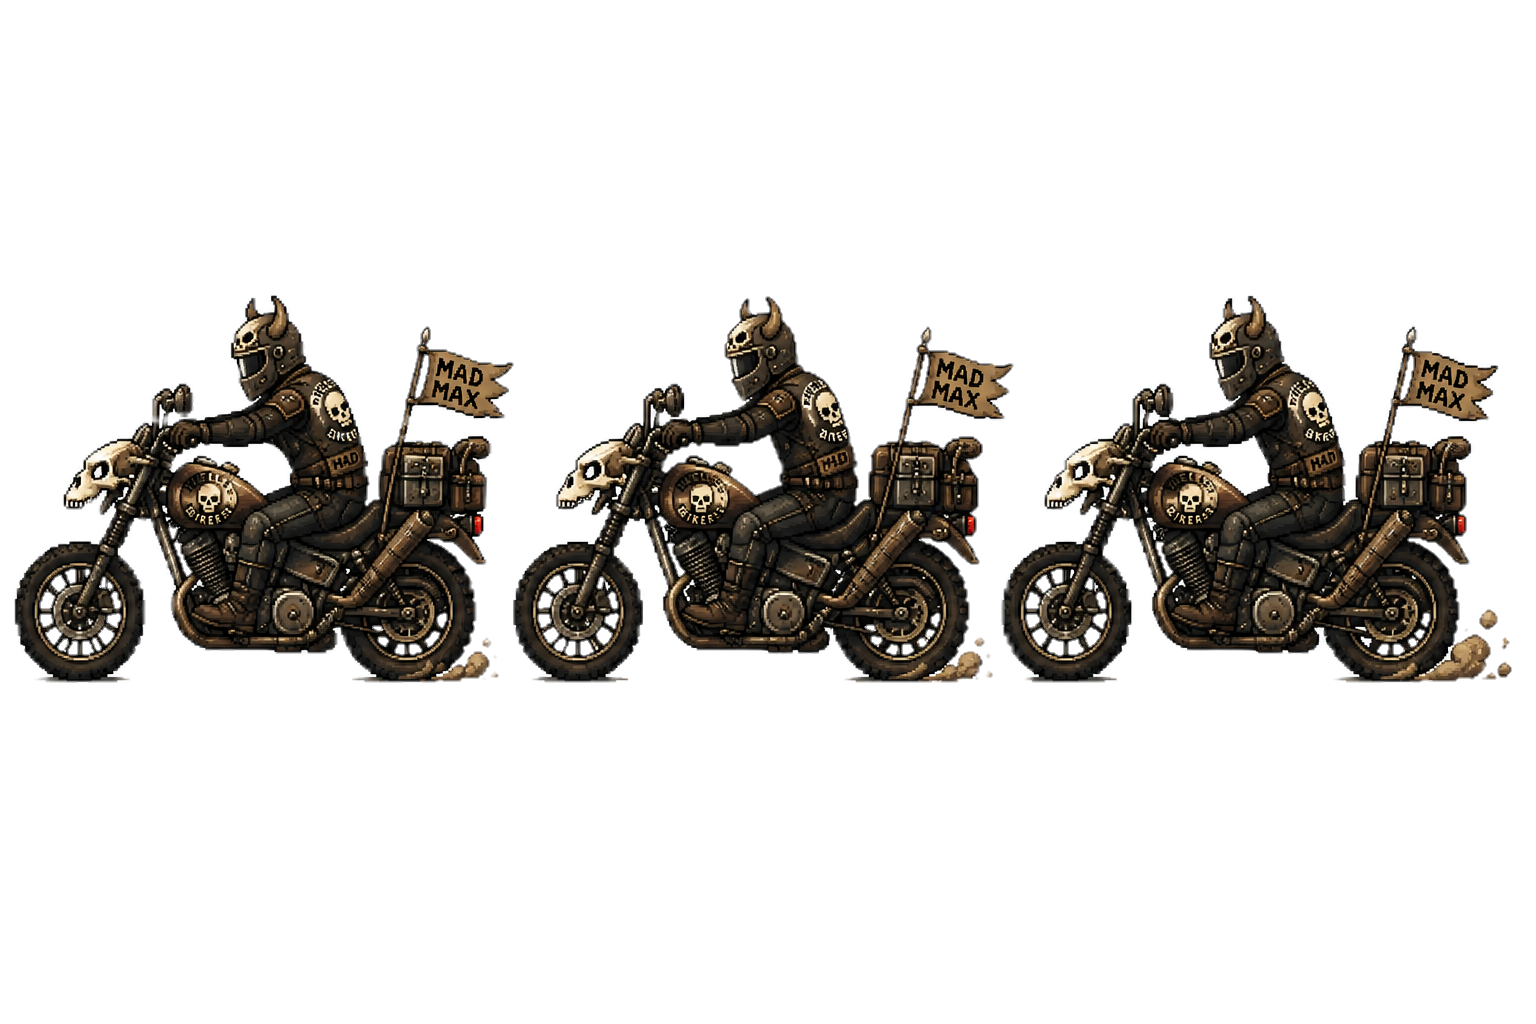
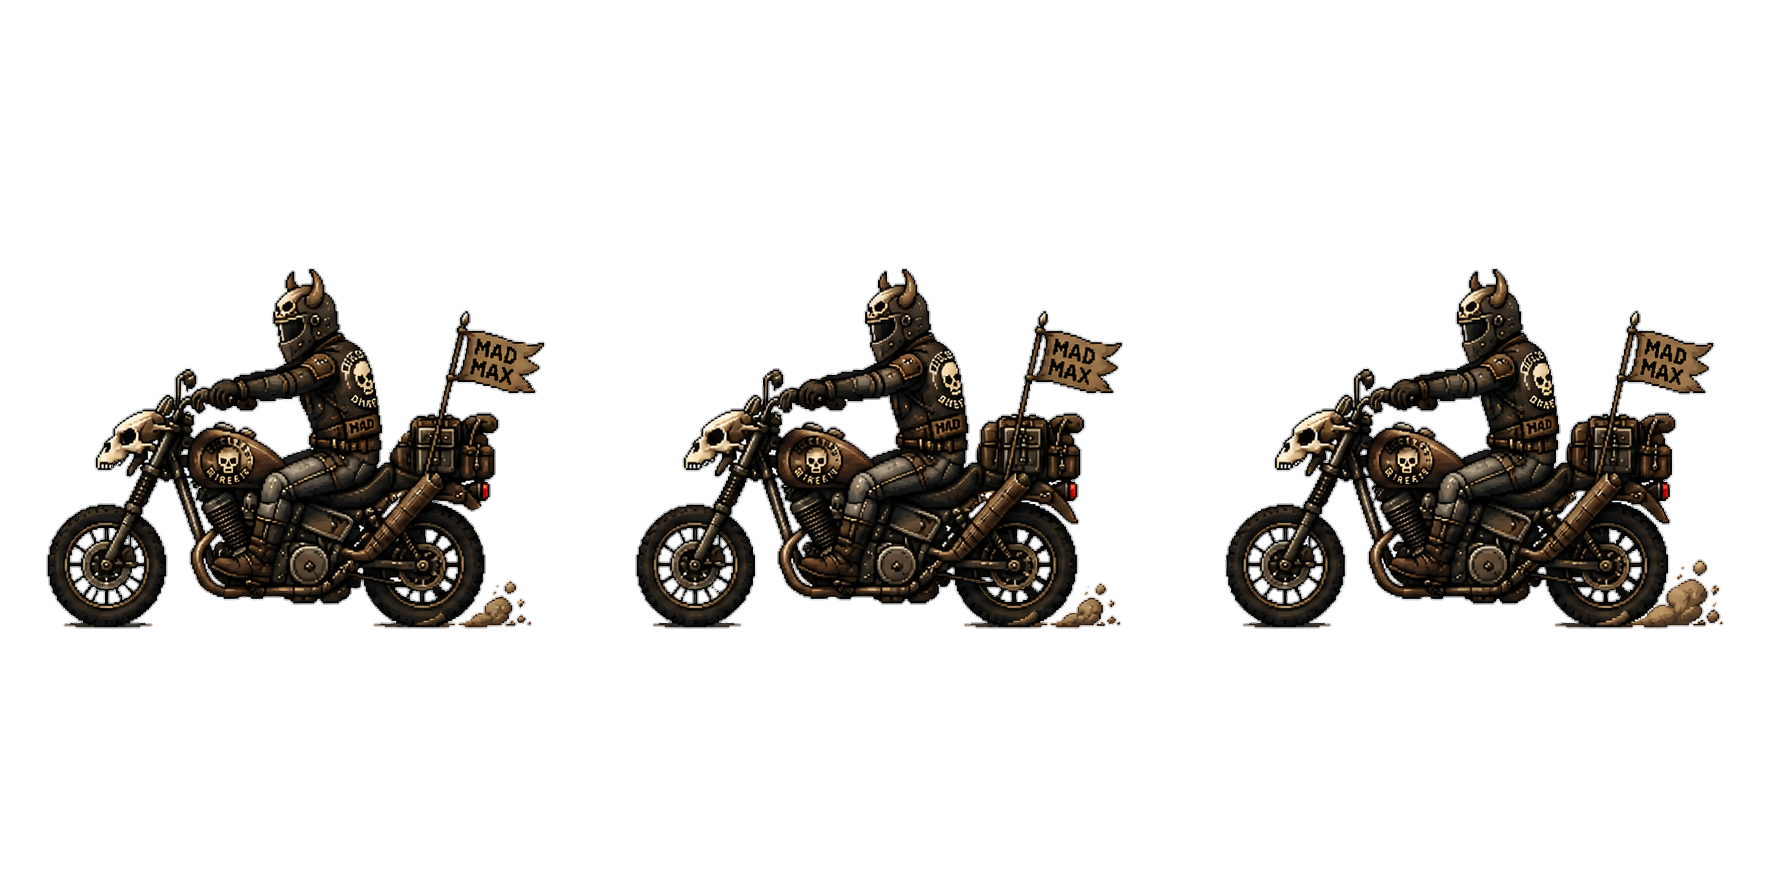
corregir el como se dibuja el alto y el ancho de la moto

Changed region(s): [[0.0, 0.274, 1.0, 0.7306]]

diff --git a/DakarMadMax/nivel2.cpp b/DakarMadMax/nivel2.cpp
@@ -109,11 +109,17 @@ Nivel2::Nivel2(TipoVehiculo tipo, QWidget *parent)
     // RELEASE: spritesheet motoN2.png — 3 cols × 1 fila = 3 frames
     QPixmap sheet(":/imagenes/motoN2.png");
     if (!sheet.isNull()) {
-        int fw = sheet.width()  / SPRITE_COLS;
-        int fh = sheet.height() / SPRITE_FILAS;
-        for (int fila = 0; fila < SPRITE_FILAS; fila++) {
-            for (int col = 0; col < SPRITE_COLS; col++) {
-                QPixmap frame = sheet.copy(col*fw, fila*fh, fw, fh);
+        // ── COORDENADAS MANUALES DE CADA FRAME ───────────────────────────
+        // Ajusta cada fila: {x, y, ancho, alto} en píxeles dentro del spritesheet.
+        // Abre motoN2.png en un editor de imágenes y mide cada frame.
+        struct FrameRect { int x, y, w, h; };
+        QVector<FrameRect> frameRects = {
+            { 48,   0, 490, 630 },   // frame 1 — ajusta estos valores
+            { 638, 0, 490, 630 },   // frame 2
+            { 1225, 0, 490, 630 },   // frame 3
+        };
+        for (const FrameRect &fr : frameRects) {
+            QPixmap frame = sheet.copy(fr.x, fr.y, fr.w, fr.h);
 
                 // Voltear horizontalmente (de izquierda a derecha)
                 frame = frame.transformed(QTransform().scale(-1, 1));
@@ -131,7 +137,7 @@ Nivel2::Nivel2(TipoVehiculo tipo, QWidget *parent)
 
                 motoFrames.append(frame);
             }
-        }
+
     } else {
         QPixmap fb(120, 80); fb.fill(Qt::red);
         for (int i = 0; i < SPRITE_FRAMES; i++) motoFrames.append(fb);
@@ -144,7 +150,7 @@ Nivel2::Nivel2(TipoVehiculo tipo, QWidget *parent)
     // VEH_Y_OFFSET desplaza la moto hacia abajo sin cambiar su tamaño.
     // Número positivo = baja, número negativo = sube.
     // Ajústalo hasta que las ruedas toquen visualmente el suelo.
-    const float VEH_Y_OFFSET = 100.0f;
+    const float VEH_Y_OFFSET = 60.0f;
     // ─────────────────────────────────────────────────────────────────────
 
     vehYBase  = SUELO_Y - motoFrames[0].height() + VEH_Y_OFFSET;